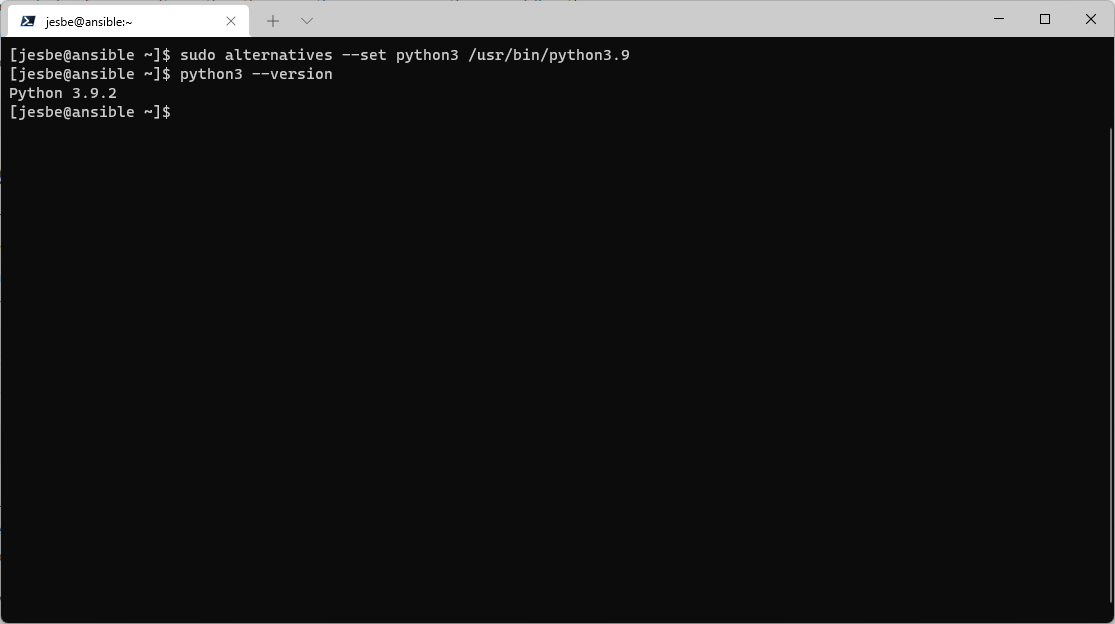
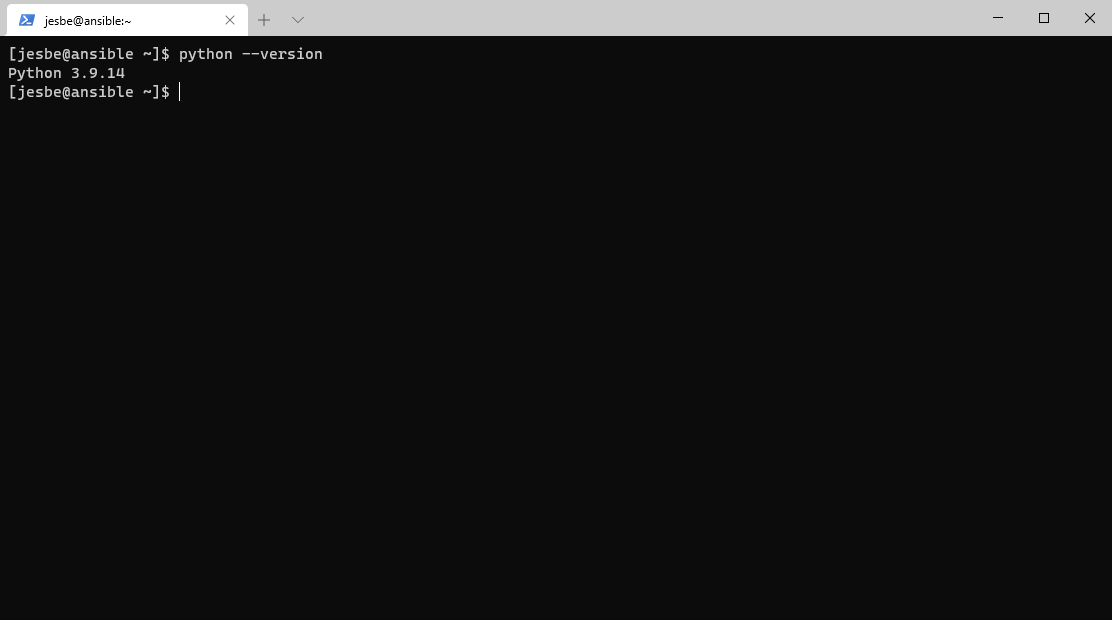
update minor fixes

diff --git a/website/content/lab02/task1/_index.md b/website/content/lab02/task1/_index.md
@@ -23,28 +23,14 @@ yes - to accept the fingerprint
 
 ![Alt text](images/000_azure_ssh.png?raw=true "ssh")
 
-> **Note**
+> __Note__
 > Sudo Password is equal to your user account password
 
 Ansible is a Python based program, we will install python in a Python Virtuelenv, in which we can isolate the python version and modules from the system python.
 
-To meet ansible 2.12 requirements we need to upgrade Python to version 3.9
-
-__Type:__
+Check python version
 
 ```bash
-
-sudo dnf install -y @python39
-
-```
-
-![Alt text](images/000_install_python.png?raw=true "install python")
-
-And we need to set the alternative for python3 command to python3.9
-
-```bash
-
-sudo alternatives --set python3 /usr/bin/python3.9
 
 python3 --version
 

diff --git a/website/content/lab01/task5/_index.md b/website/content/lab01/task5/_index.md
@@ -35,9 +35,13 @@ WSL is now ready
 
 Enable Systemd for WSL
 
+Enter password when prompted
+
 ```bash
 
-sudo echo -e "[boot]\nsystemd=true" >> /etc/wsl.conf
+sudo su
+
+echo -e "[boot]\nsystemd=true" >> /etc/wsl.conf
 
 ```
 
@@ -121,7 +125,7 @@ echo '$USER ALL = NOPASSWD: /usr/bin/dockerd' | sudo EDITOR='tee -a' visudo
 
 ![Alt text](images/11_visudo.png?raw=true "visudo")
 
-Close the Ubuntu tab in Windows Terminal and open it again
+__Close__ the Ubuntu tab in Windows Terminal and open it again
 
 run a docker command to check that it works
 
